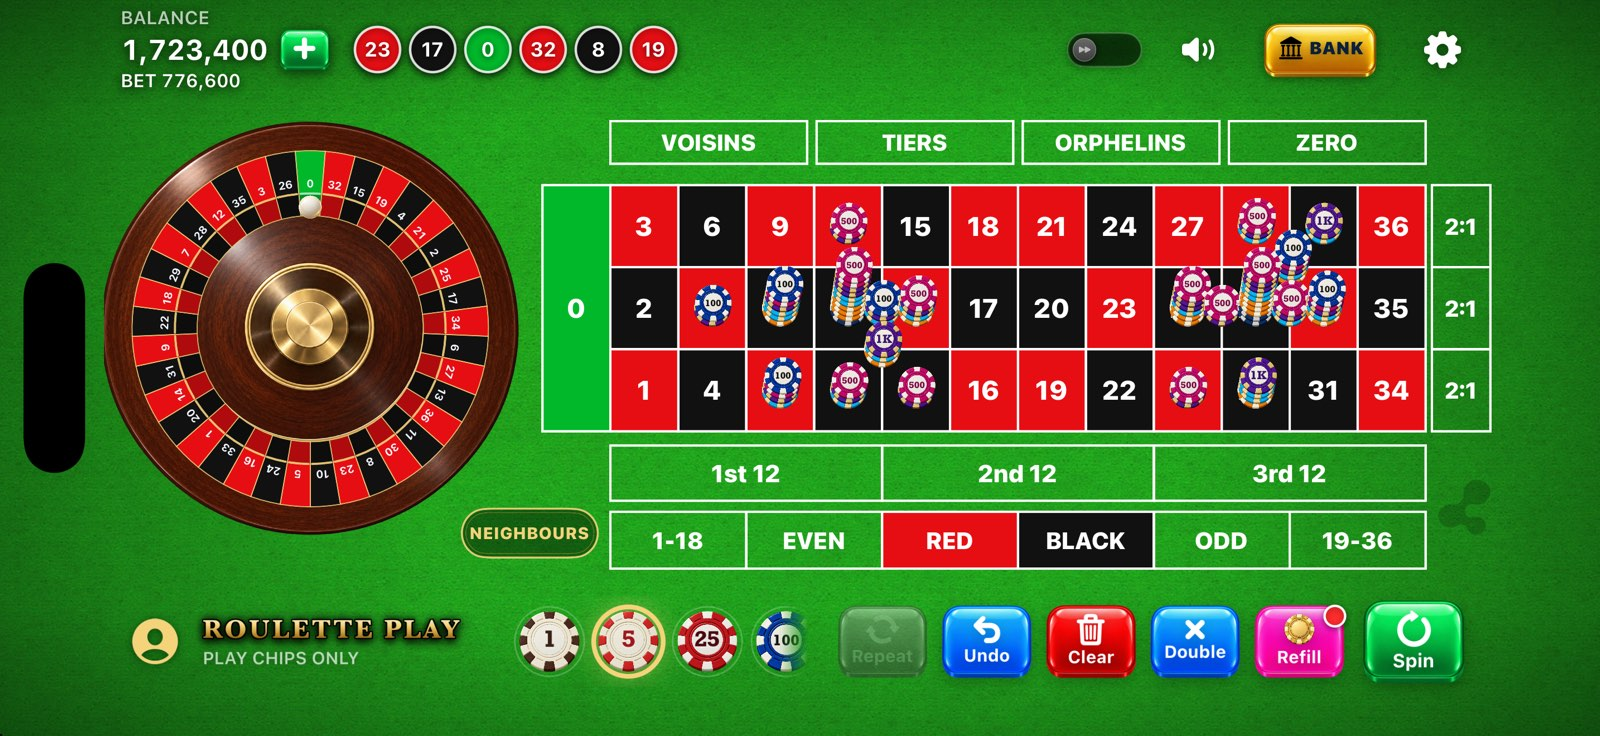
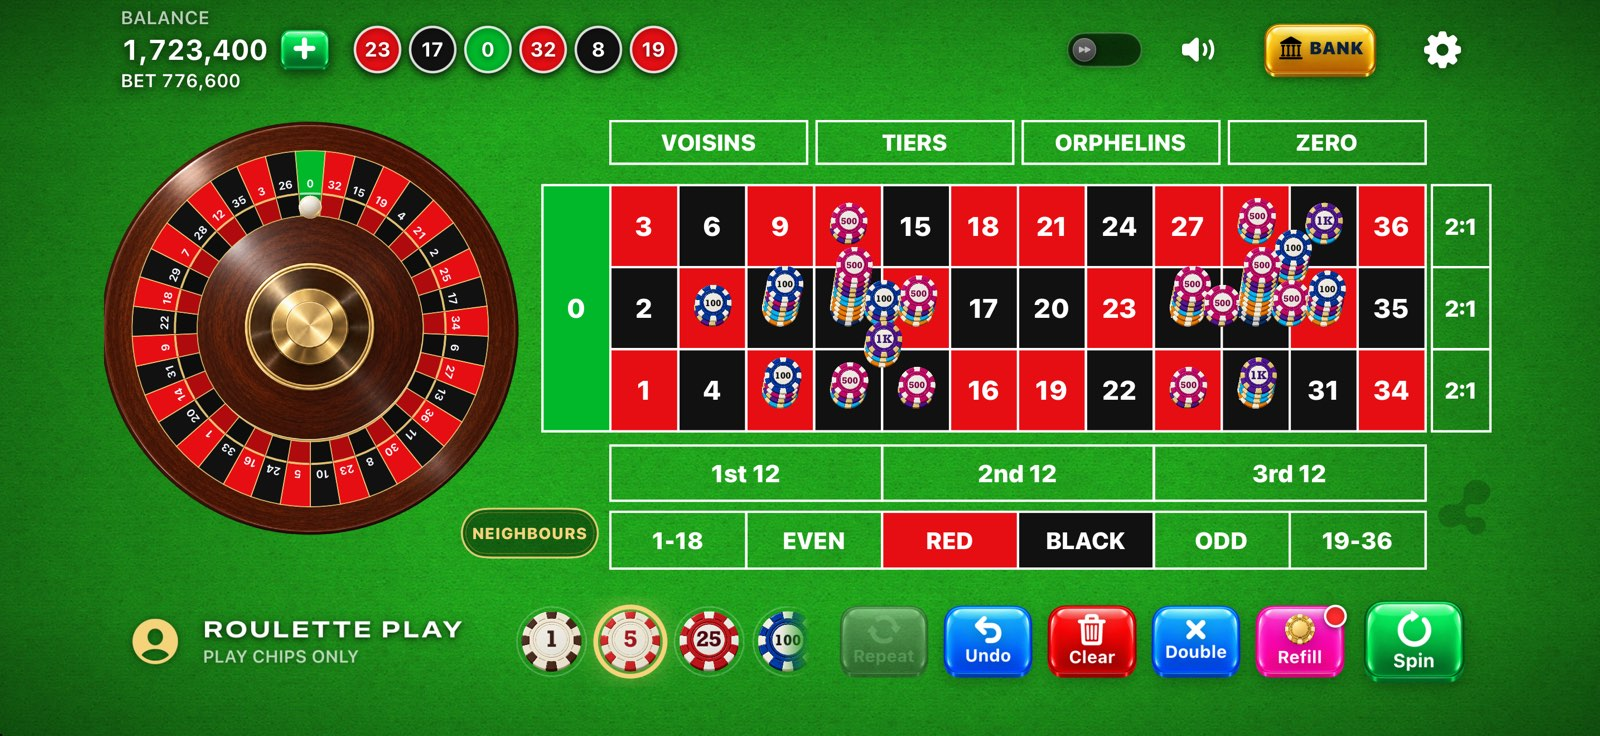
Website screenshots with the white ROULETTE PLAY title

diff --git a/index.html b/index.html
@@ -257,7 +257,7 @@
                 <div class="device device-iphone-landscape">
                   <div class="device-screen">
                     <img
-                      src="/assets/vroulette/iphone-table.jpg?v=20261003"
+                      src="/assets/vroulette/iphone-table.jpg?v=20261003b"
                       width="1600"
                       height="736"
                       alt="Roulette Play on iPhone in landscape, with the roulette wheel beside a European table and stacks of play chips on several numbers."
@@ -285,7 +285,7 @@
                   <div class="device device-iphone-landscape">
                     <div class="device-screen">
                       <img
-                        src="/assets/vroulette/iphone-winner-v2.jpg?v=20261003"
+                        src="/assets/vroulette/iphone-winner-v2.jpg?v=20261003b"
                         width="1600"
                         height="736"
                         alt="Roulette Play on iPhone in landscape, showing the winning number 23 in a result banner across the table."
@@ -310,7 +310,7 @@
                 <div class="device device-iphone-landscape">
                   <div class="device-screen">
                     <img
-                      src="/assets/vroulette/iphone-customise.jpg?v=20261003"
+                      src="/assets/vroulette/iphone-customise.jpg?v=20261003b"
                       width="1600"
                       height="736"
                       alt="Roulette Play on iPhone in landscape with a purple table theme and a gold roulette ball."
